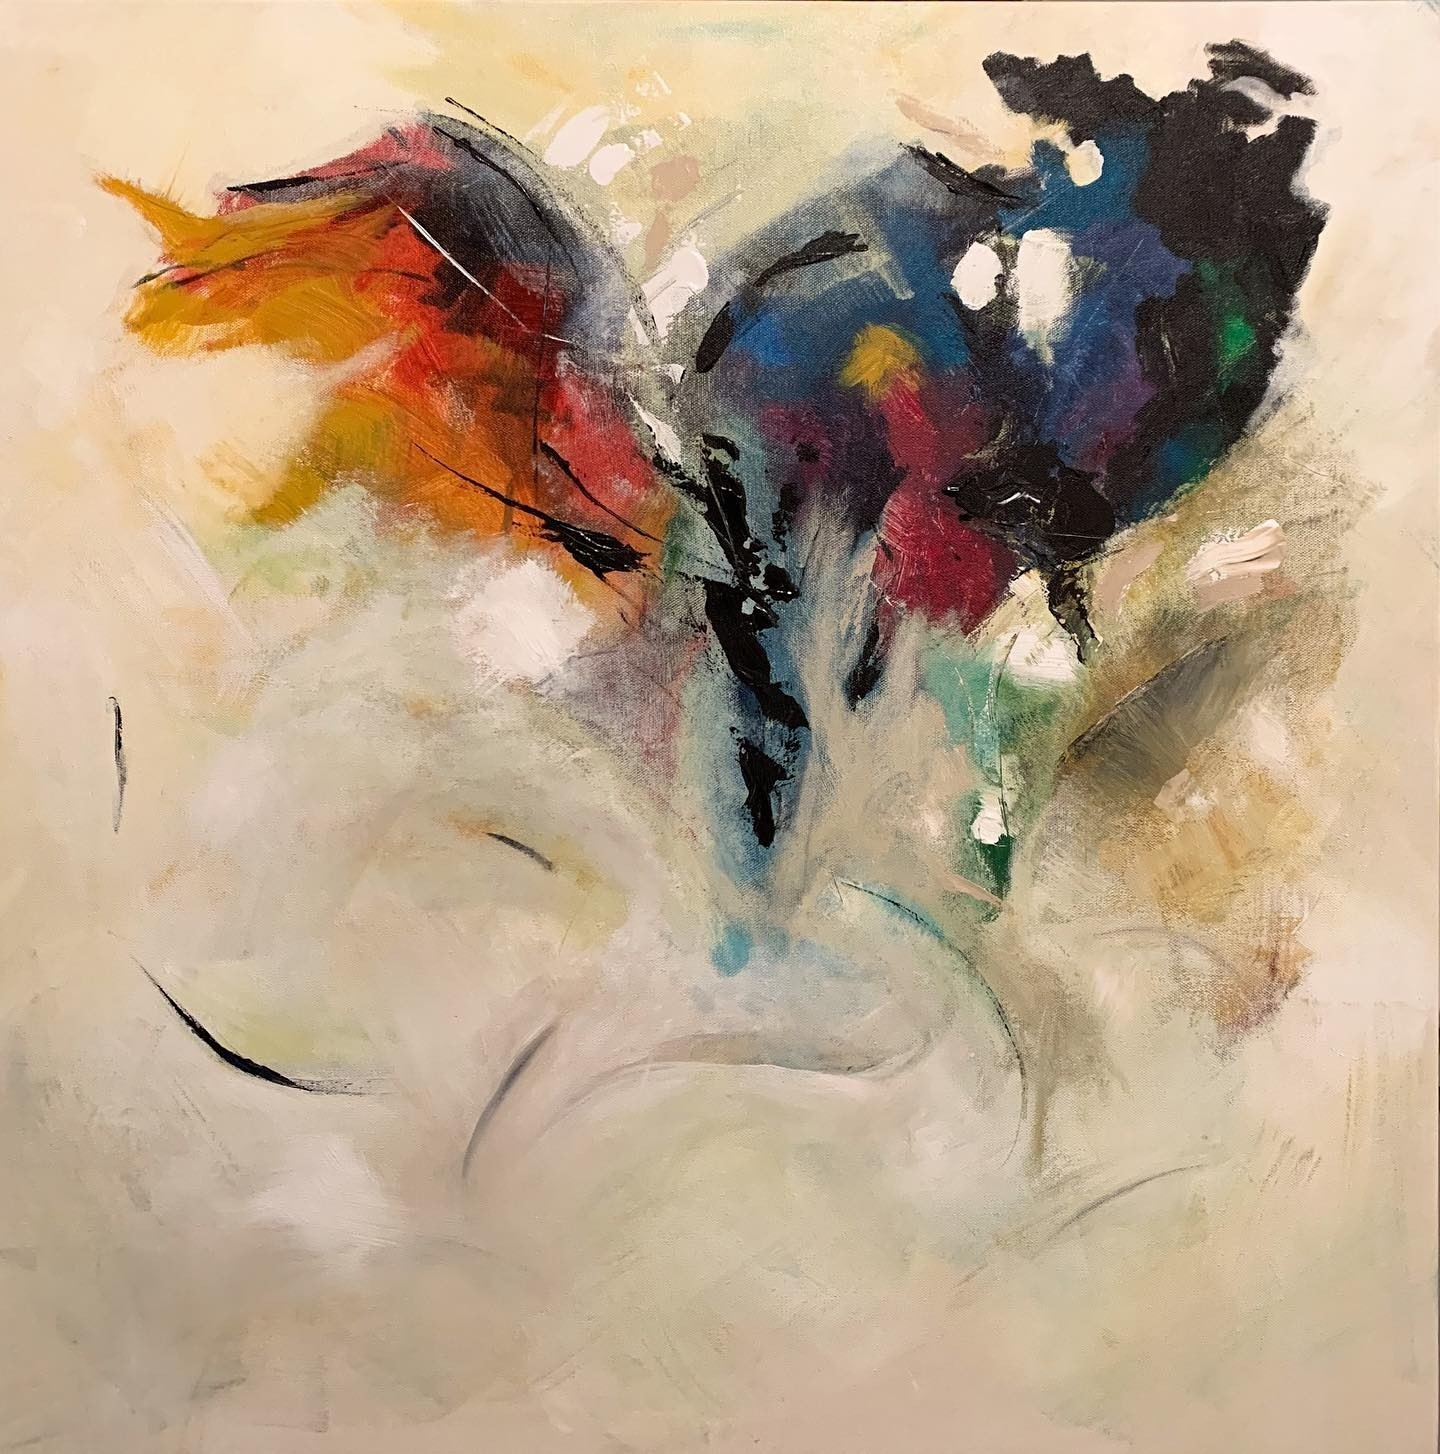
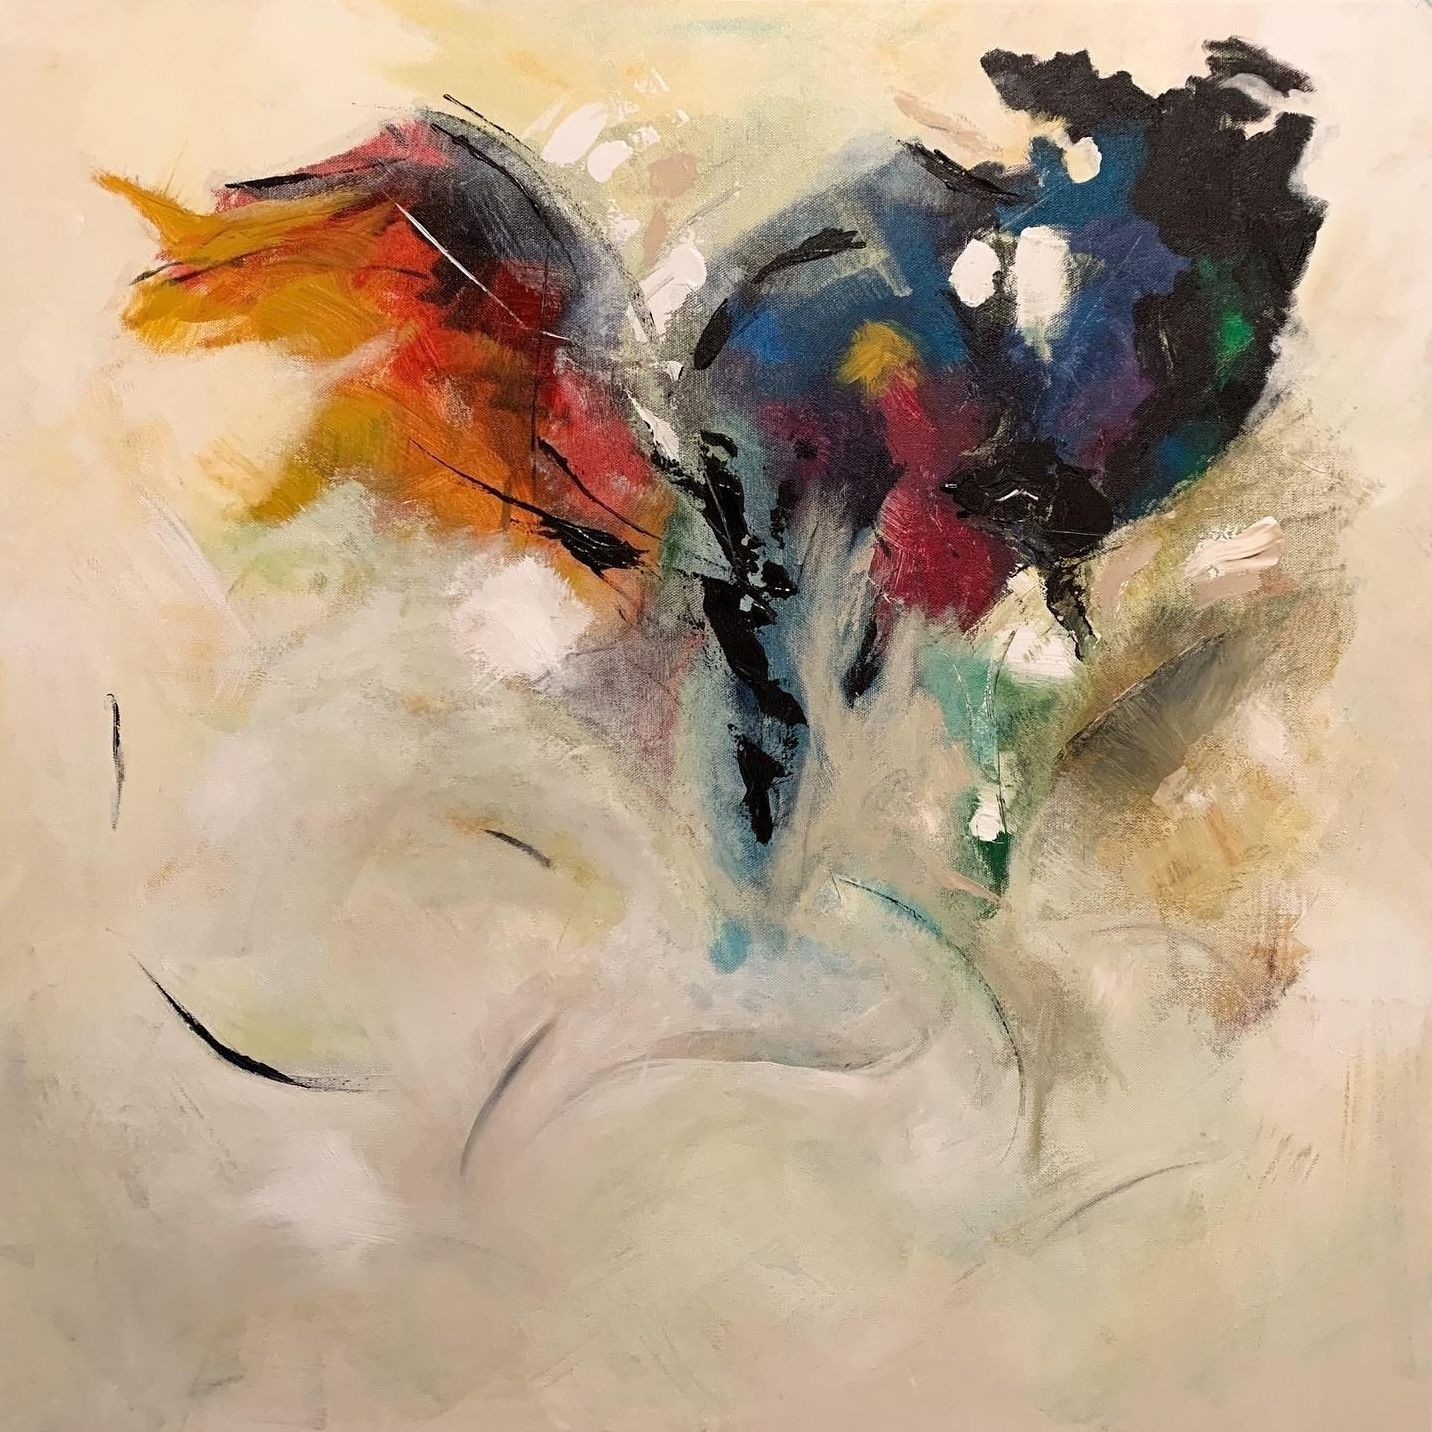
New photos for Untitled No. 3 and No. 8

diff --git a/index.html b/index.html
@@ -8,7 +8,7 @@
   <link rel="preconnect" href="https://fonts.googleapis.com">
   <link rel="preconnect" href="https://fonts.gstatic.com" crossorigin>
   <link href="https://fonts.googleapis.com/css2?family=Cormorant+Garamond:ital,wght@0,300;0,400;0,500;1,400&family=EB+Garamond:wght@400;500&family=Cormorant+Unicase:wght@400&display=swap" rel="stylesheet">
-  <link rel="stylesheet" href="styles.css?v=20261016113422">
+  <link rel="stylesheet" href="styles.css?v=20261016113726">
 </head>
 <body>
 
@@ -71,8 +71,8 @@
     <div class="detail-inner"></div>
   </div>
 
-  <script src="reveal.js?v=20261016113422"></script>
-  <script src="artworks.js?v=20261016113422"></script>
-  <script src="shop.js?v=20261016113422"></script>
+  <script src="reveal.js?v=20261016113726"></script>
+  <script src="artworks.js?v=20261016113726"></script>
+  <script src="shop.js?v=20261016113726"></script>
 </body>
 </html>

diff --git a/about.html b/about.html
@@ -8,7 +8,7 @@
   <link rel="preconnect" href="https://fonts.googleapis.com">
   <link rel="preconnect" href="https://fonts.gstatic.com" crossorigin>
   <link href="https://fonts.googleapis.com/css2?family=Cormorant+Garamond:ital,wght@0,300;0,400;0,500;1,400&family=EB+Garamond:wght@400;500&family=Cormorant+Unicase:wght@400&display=swap" rel="stylesheet">
-  <link rel="stylesheet" href="styles.css?v=20261016113422">
+  <link rel="stylesheet" href="styles.css?v=20261016113726">
 </head>
 <body>
 
@@ -71,6 +71,6 @@
       new ResizeObserver(() => sec.style.setProperty("--bio-h", bio.offsetHeight + "px")).observe(bio);
     })();
   </script>
-  <script src="reveal.js?v=20261016113422"></script>
+  <script src="reveal.js?v=20261016113726"></script>
 </body>
 </html>

diff --git a/artworks.js b/artworks.js
@@ -52,7 +52,7 @@ const ARTWORKS = [
     medium: "Acrylic",
     size: "30 × 30 in",
     price: "",
-    images: ["images/painting-03.jpg"],
+    images: ["images/painting-03.jpg?v=2"],
     room: "images/painting-03-room.jpg",
     description: "",
     buyLink: ""
@@ -117,7 +117,7 @@ const ARTWORKS = [
     medium: "Acrylic",
     size: "30 × 30 in",
     price: "",
-    images: ["images/painting-08.jpg"],
+    images: ["images/painting-08.jpg?v=2"],
     room: "images/painting-08-room.jpg",
     description: "",
     buyLink: ""
